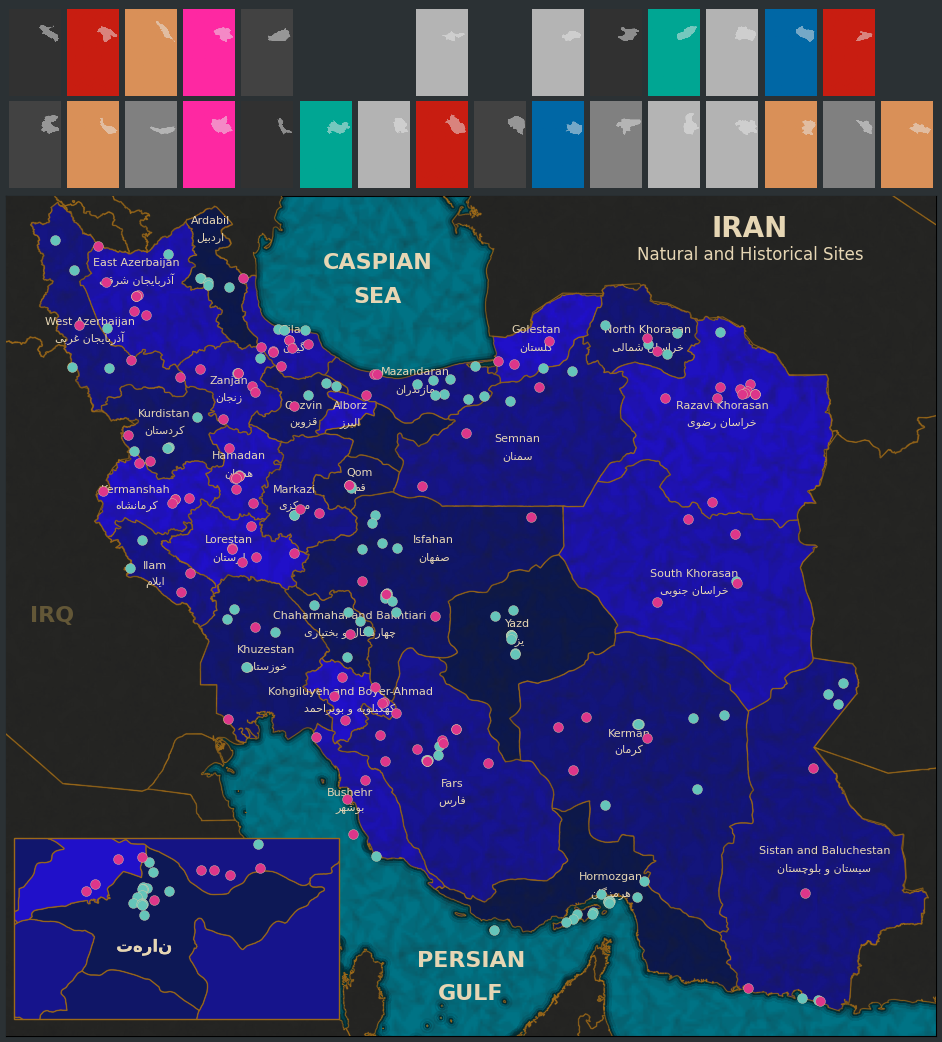
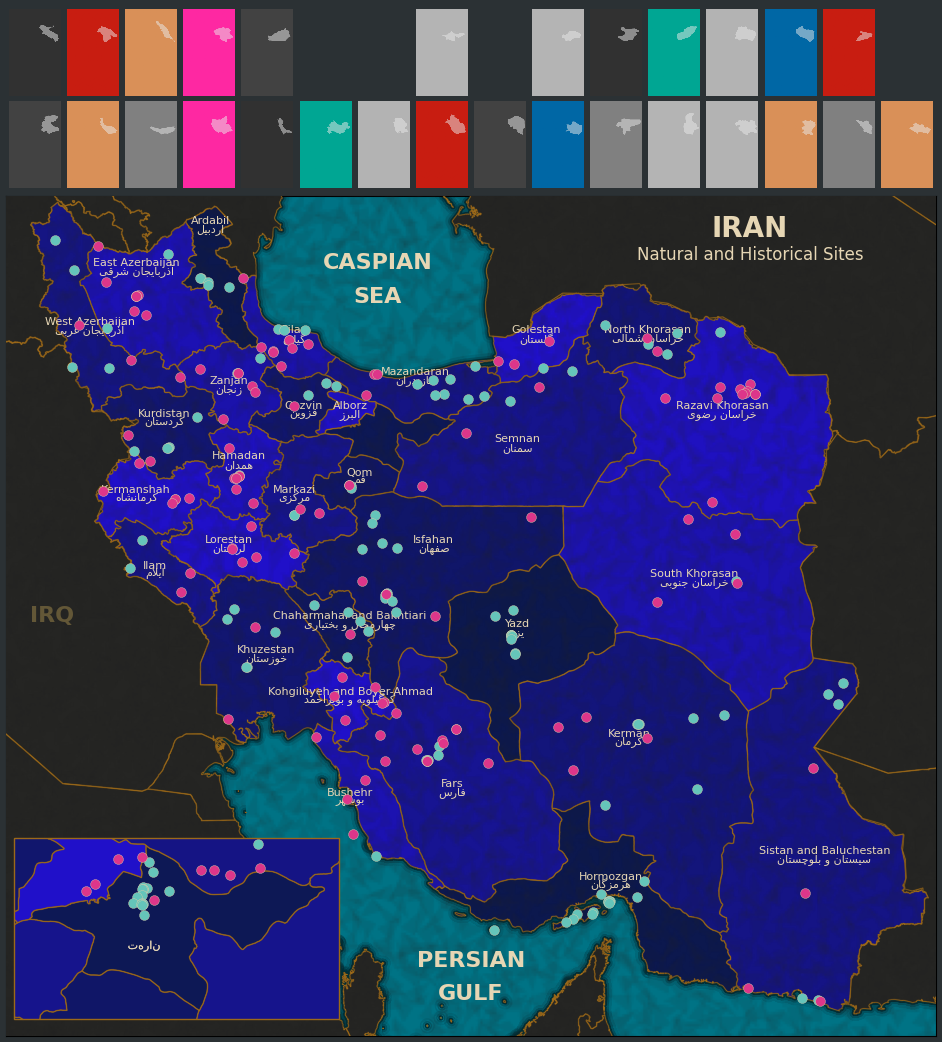
update label plotting

diff --git a/plotting/plotting_manager.py b/plotting/plotting_manager.py
@@ -305,7 +305,7 @@ class PlotManager:
             points_in_expansion = points_gdf.cx[xmin:xmax, ymin:ymax].copy()
 
             if self.plot_scale >= 3:
-                self._plot_labels(ax_inset, points_in_expansion, current_date, self.labels, self.plot_scale, self.colors["unvisited"], self.colors["visited"], self.colors["active"], self.colors["label_bg"], zorder=60)
+                self._plot_labels(ax_inset, points_in_expansion, current_date, self.labels, self.plot_scale, self.colors["unvisited"], self.colors["visited"], self.colors["active"], self.colors["label_bg"], zorder=zorder)
             else:
                 self._plot_points(ax_inset, current_date, points=points_in_expansion, zorder=zorder+2)
 
